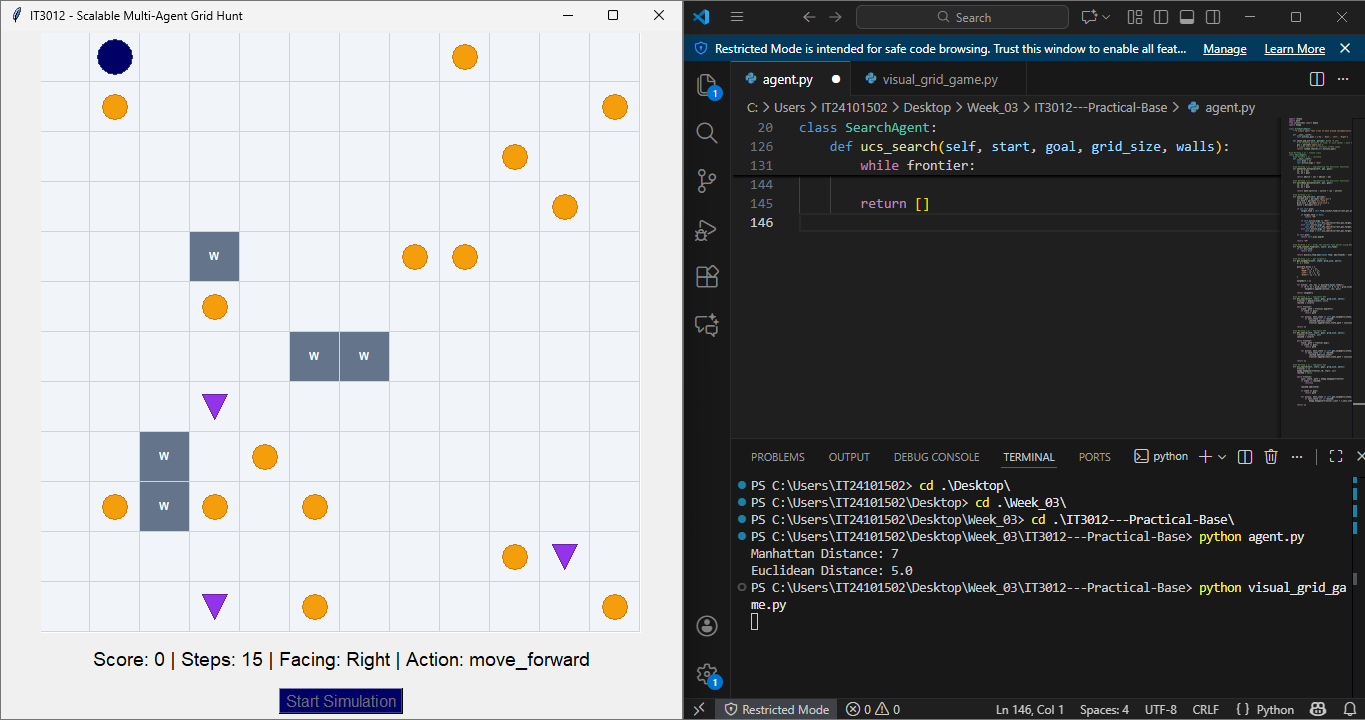
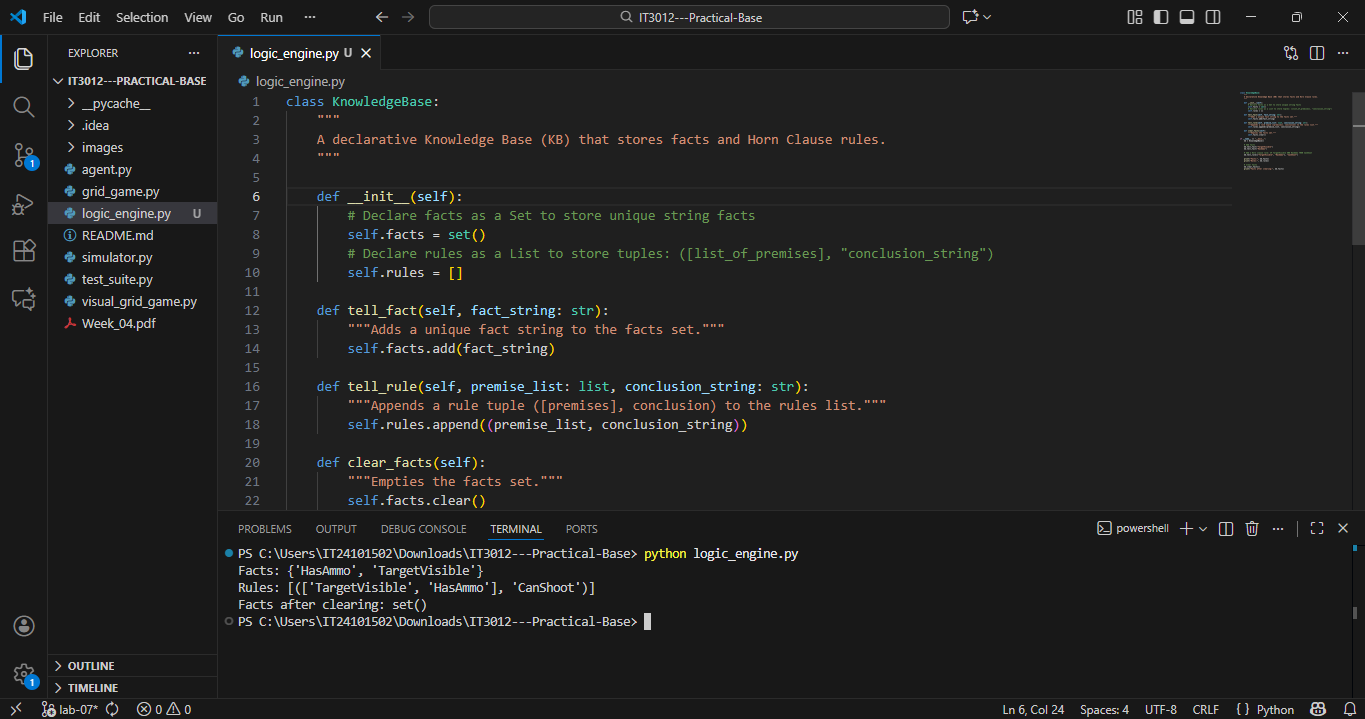
Add Step 2.1: The Inference Algorithm in Part 2: Implementing Forward Chaining

diff --git a/logic_engine.py b/logic_engine.py
@@ -21,21 +21,38 @@ class KnowledgeBase:
         """Empties the facts set."""
         self.facts.clear()
 
-'''
+    def forward_chain(self):
+        """
+        Data-Driven Forward Chaining algorithm.
+        Iterates through rules and infers new facts until no more facts can be deduced.
+        """
+        new_facts_added = True
+
+        while new_facts_added:
+            new_facts_added = False
+
+            for premises, conclusion in self.rules:
+                if conclusion not in self.facts:
+                    # Modus Ponens Check: check if all premises are present in facts
+                    if all(p in self.facts for p in premises):
+                        self.facts.add(conclusion)
+                        new_facts_added = True
+
+
 if __name__ == "__main__":
     kb = KnowledgeBase()
 
-    # Add facts
+    # Initial Facts
     kb.tell_fact("TargetVisible")
     kb.tell_fact("HasAmmo")
 
-    # Add a Horn clause rule: IF TargetVisible AND HasAmmo THEN CanShoot
-    kb.tell_rule(["TargetVisible", "HasAmmo"], "CanShoot")
+    # Rules
+    kb.tell_rule(["TargetVisible", "HasAmmo"], "CanTarget")
+    kb.tell_rule(["CanTarget"], "AttackReady")
 
-    print("Facts:", kb.facts)
-    print("Rules:", kb.rules)
+    print("Initial Facts:", kb.facts)
 
-    # Clear facts
-    kb.clear_facts()
-    print("Facts after clearing:", kb.facts)
-'''
+    # Run Forward Chaining
+    kb.forward_chain()
+
+    print("Facts after Forward Chaining:", kb.facts)
